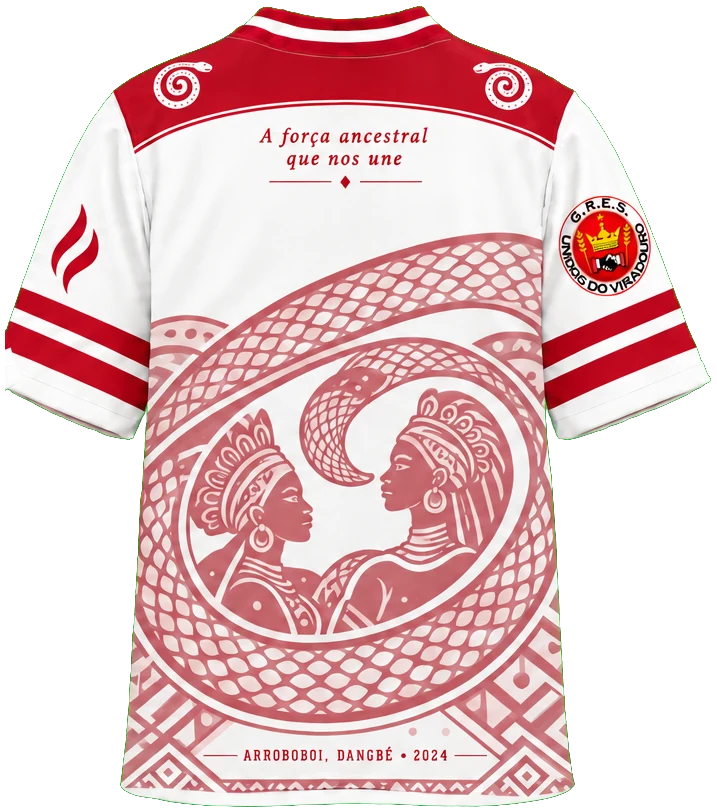
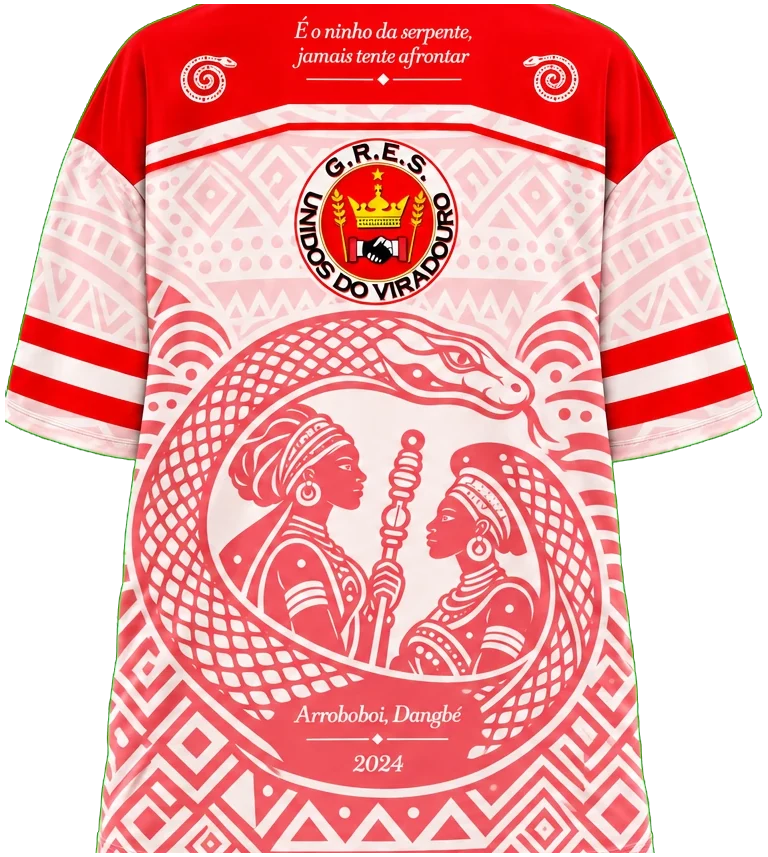
Baterias Cariocas: novas estampas Legado de Tijuca, Vila Isabel, Portela, Viradouro e Mocidade
- Frente e costas recortadas do fundo verde (tools/recorte_fundo_verde.py)
- 'Na estampa' atualizado para a arte nova de Tijuca, Vila Isabel e Portela
- CLAUDE.md: só falta a Legado nova da Mangueira

Claude-Session: https://claude.ai/code/session_01LWKwsvGKQjaMGiuZcpz9Vi

diff --git a/index.html b/index.html
@@ -972,7 +972,7 @@ class Component extends DCLogic {
   constructor(props) {
     super(props);
     this.K = {
-      BAT: [{"k": "furiosa", "name": "Furiosa", "c1": "#D61F26", "c2": "#FFFFFF", "cap": "Vermelho e branco", "l": ["A Furiosa", "", ""], "fs": 26, "ext": "webp", "escola": "Salgueiro", "enredo": "Bahia de Todos os Deuses", "titulo": "Campeã de 1969", "tema": "Baiana de tabuleiro, a igreja do Pelourinho e a roda de capoeira.", "p": {"f1": "Meu coração é vermelho e branco", "f2": "Salgueiro é paixão", "tema": "Surdo, caixa e baquetas cruzadas.", "cap": "Vermelho e branco", "c1": "#C8102E", "c2": "#FFFFFF"}}, {"k": "tabajara", "name": "Tabajara do Samba", "c1": "#1F4FD1", "c2": "#FFFFFF", "cap": "Azul e branco", "l": ["Tabajara", "do Samba", ""], "fs": 26, "ext": "webp", "escola": "Portela", "enredo": "Lendas e Mistérios da Amazônia", "titulo": "Campeã de 1970", "tema": "Vitória-régia, rio, sol, lua e penas da águia.", "p": {"f1": "Meu coração é azul e branco", "f2": "Onde tem samba, tem Portela", "tema": "A águia em voo e a pena azul.", "cap": "Azul e branco", "c1": "#1F4FD1", "c2": "#FFFFFF"}}, {"k": "soberana", "name": "Soberana", "c1": "#DCEBF7", "c2": "#1F4FD1", "cap": "Azul-claro e azul royal", "l": ["Soberana", "", ""], "fs": 26, "ext": "webp", "escola": "Beija-Flor", "enredo": "Ratos e Urubus", "titulo": "Vice-campeã de 1989", "tema": "Coroa, retalhos e urubus: o encontro entre luxo e descarte.", "p": {"f1": "Meu coração bate em Nilópolis", "f2": "Um amor que voa alto", "tema": "O beija-flor e a flor de corações.", "cap": "Azul-claro e azul", "c1": "#8EC5EC", "c2": "#1F4FD1"}}, {"k": "noel", "name": "Swingueira de Noel", "c1": "#13285E", "c2": "#FFFFFF", "cap": "Azul-marinho e branco", "l": ["Swingueira", "de Noel", ""], "fs": 24.0, "ext": "webp", "escola": "Vila Isabel", "enredo": "Kizomba", "titulo": "Campeã de 1988", "tema": "Tramas, dança e liberdade.", "p": {"f1": "O samba mora aqui", "f2": "Meu coração é da Vila", "tema": "Violão coroado e notas musicais.", "cap": "Azul-marinho e branco", "c1": "#13285E", "c2": "#FFFFFF"}}, {"k": "invocada", "name": "Invocada", "c1": "#0E8A6B", "c2": "#D61F26", "cap": "Verde, vermelho e branco", "l": ["Invocada", "", ""], "fs": 26, "ext": "webp", "escola": "Grande Rio", "enredo": "Sete Chaves de Exu", "titulo": "Campeã de 2022", "tema": "Sete chaves, caminhos, espiral e búzios.", "p": {"f1": "Caxias no peito", "f2": "Caxias canta comigo", "tema": "Onça coroada e pintas de onça.", "cap": "Verde, vermelho e branco", "c1": "#0E8A5B", "c2": "#D61F26"}}, {"k": "quente", "name": "Não Existe Mais Quente", "c1": "#2E9B2E", "c2": "#FFFFFF", "cap": "Verde e branco", "l": ["Não Existe", "Mais Quente", ""], "fs": 21.8, "ext": "webp", "escola": "Mocidade", "enredo": "Ziriguidum 2001", "titulo": "Campeã de 1985", "tema": "Astronauta ritmista, órbitas e estrela.", "p": {"f1": "Padre Miguel no coração", "f2": "Independente por amor", "tema": "A estrela da Mocidade.", "cap": "Verde e branco", "c1": "#3E9B2E", "c2": "#FFFFFF"}}, {"k": "cadencia", "name": "Pura Cadência", "c1": "#1F3FC0", "c2": "#F2C200", "cap": "Azul e amarelo ouro", "l": ["Pura", "Cadência", ""], "fs": 26, "ext": "webp", "escola": "Unidos da Tijuca", "enredo": "É Segredo!", "titulo": "Campeã de 2010", "tema": "Figurino em transformação e plumas de pavão.", "p": {"f1": "Meu coração é do Borel", "f2": "Orgulho de ser tijucano", "tema": "O pavão e suas plumas.", "cap": "Amarelo e azul", "c1": "#F2C200", "c2": "#1F3FC0"}}, {"k": "leopoldina", "name": "Swing da Leopoldina", "c1": "#EFE6CF", "c2": "#0E6B35", "cap": "Creme, verde e dourado", "l": ["Swing da", "Leopoldina", ""], "fs": 24.0, "ext": "webp", "escola": "Imperatriz", "enredo": "Mais Vale um Jegue que Me Carregue… Lá no Ceará", "titulo": "Campeã de 1995", "tema": "Jegue, bússola e paisagem do sertão.", "p": {"f1": "Ramos no coração", "f2": "Meu samba tem coroa", "tema": "Coroa imperial e ramos dourados.", "cap": "Creme, verde e dourado", "c1": "#EFE6CF", "c2": "#0E6B35"}}, {"k": "furacao", "name": "Furacão Vermelho e Branco", "c1": "#F4F4F4", "c2": "#D0202E", "cap": "Branco e vermelho", "l": ["Furacão", "Vermelho", "e Branco"], "fs": 19, "ext": "webp", "escola": "Viradouro", "enredo": "Arroboboi, Dangbé", "titulo": "Campeã de 2024", "tema": "Serpente, ancestralidade e guardiãs da tradição.", "p": {"f1": "Meu coração é Viradouro", "f2": "Niterói canta comigo", "tema": "Coroa, aperto de mãos e furacão.", "cap": "Branco e vermelho", "c1": "#F4F4F4", "c2": "#D0202E"}}, {"k": "tamborim", "name": "Tem Que Respeitar Meu Tamborim", "c1": "#0A6B3A", "c2": "#E0559B", "cap": "Verde e rosa", "l": ["Tem Que", "Respeitar", "Meu Tamborim"], "fs": 18.7, "ext": "webp", "escola": "Mangueira", "enredo": "História pra Ninar Gente Grande", "titulo": "Campeã de 2019", "tema": "Livro aberto e protagonistas recuperados pela história.", "p": {"f1": "Verde e rosa na alma", "f2": "Meu coração é Mangueira", "tema": "Surdo verde e rosa com a coroa.", "cap": "Rosa e verde", "c1": "#E0207F", "c2": "#0A6B3A"}}, {"k": "sinfonica", "name": "Sinfônica do Samba", "c1": "#0B4D2E", "c2": "#FFFFFF", "cap": "Verde e branco", "l": ["Sinfônica", "do Samba", ""], "fs": 26, "ext": "webp", "escola": "Império Serrano", "enredo": "Bum Bum Paticumbum Prugurundum", "titulo": "Campeã de 1982", "tema": "Evolução dos desfiles, baiana e agogô de quatro bocas.", "p": {"f1": "A Serrinha mora em mim", "f2": "Meu Império é o samba", "tema": "Coroa dourada e agogô.", "cap": "Verde e dourado", "c1": "#0B4D2E", "c2": "#D4AF37"}}],
+      BAT: [{"k": "furiosa", "name": "Furiosa", "c1": "#D61F26", "c2": "#FFFFFF", "cap": "Vermelho e branco", "l": ["A Furiosa", "", ""], "fs": 26, "ext": "webp", "escola": "Salgueiro", "enredo": "Bahia de Todos os Deuses", "titulo": "Campeã de 1969", "tema": "Baiana de tabuleiro, a igreja do Pelourinho e a roda de capoeira.", "p": {"f1": "Meu coração é vermelho e branco", "f2": "Salgueiro é paixão", "tema": "Surdo, caixa e baquetas cruzadas.", "cap": "Vermelho e branco", "c1": "#C8102E", "c2": "#FFFFFF"}}, {"k": "tabajara", "name": "Tabajara do Samba", "c1": "#1F4FD1", "c2": "#FFFFFF", "cap": "Azul e branco", "l": ["Tabajara", "do Samba", ""], "fs": 26, "ext": "webp", "escola": "Portela", "enredo": "Lendas e Mistérios da Amazônia", "titulo": "Campeã de 1970", "tema": "Vitória-régia, o rio sob a lua, a flor de lótus e a pena da águia.", "p": {"f1": "Meu coração é azul e branco", "f2": "Onde tem samba, tem Portela", "tema": "A águia em voo e a pena azul.", "cap": "Azul e branco", "c1": "#1F4FD1", "c2": "#FFFFFF"}}, {"k": "soberana", "name": "Soberana", "c1": "#DCEBF7", "c2": "#1F4FD1", "cap": "Azul-claro e azul royal", "l": ["Soberana", "", ""], "fs": 26, "ext": "webp", "escola": "Beija-Flor", "enredo": "Ratos e Urubus", "titulo": "Vice-campeã de 1989", "tema": "Coroa, retalhos e urubus: o encontro entre luxo e descarte.", "p": {"f1": "Meu coração bate em Nilópolis", "f2": "Um amor que voa alto", "tema": "O beija-flor e a flor de corações.", "cap": "Azul-claro e azul", "c1": "#8EC5EC", "c2": "#1F4FD1"}}, {"k": "noel", "name": "Swingueira de Noel", "c1": "#13285E", "c2": "#FFFFFF", "cap": "Azul-marinho e branco", "l": ["Swingueira", "de Noel", ""], "fs": 24.0, "ext": "webp", "escola": "Vila Isabel", "enredo": "Kizomba", "titulo": "Campeã de 1988", "tema": "Mulheres dançando, a lua e a corrente partida da liberdade.", "p": {"f1": "O samba mora aqui", "f2": "Meu coração é da Vila", "tema": "Violão coroado e notas musicais.", "cap": "Azul-marinho e branco", "c1": "#13285E", "c2": "#FFFFFF"}}, {"k": "invocada", "name": "Invocada", "c1": "#0E8A6B", "c2": "#D61F26", "cap": "Verde, vermelho e branco", "l": ["Invocada", "", ""], "fs": 26, "ext": "webp", "escola": "Grande Rio", "enredo": "Sete Chaves de Exu", "titulo": "Campeã de 2022", "tema": "Sete chaves, caminhos, espiral e búzios.", "p": {"f1": "Caxias no peito", "f2": "Caxias canta comigo", "tema": "Onça coroada e pintas de onça.", "cap": "Verde, vermelho e branco", "c1": "#0E8A5B", "c2": "#D61F26"}}, {"k": "quente", "name": "Não Existe Mais Quente", "c1": "#2E9B2E", "c2": "#FFFFFF", "cap": "Verde e branco", "l": ["Não Existe", "Mais Quente", ""], "fs": 21.8, "ext": "webp", "escola": "Mocidade", "enredo": "Ziriguidum 2001", "titulo": "Campeã de 1985", "tema": "Astronauta ritmista, órbitas e estrela.", "p": {"f1": "Padre Miguel no coração", "f2": "Independente por amor", "tema": "A estrela da Mocidade.", "cap": "Verde e branco", "c1": "#3E9B2E", "c2": "#FFFFFF"}}, {"k": "cadencia", "name": "Pura Cadência", "c1": "#1F3FC0", "c2": "#F2C200", "cap": "Azul e amarelo ouro", "l": ["Pura", "Cadência", ""], "fs": 26, "ext": "webp", "escola": "Unidos da Tijuca", "enredo": "É Segredo!", "titulo": "Campeã de 2010", "tema": "Dançarina com a saia em plumas de pavão, o pavão da escola e os versos de É Segredo.", "p": {"f1": "Meu coração é do Borel", "f2": "Orgulho de ser tijucano", "tema": "O pavão e suas plumas.", "cap": "Amarelo e azul", "c1": "#F2C200", "c2": "#1F3FC0"}}, {"k": "leopoldina", "name": "Swing da Leopoldina", "c1": "#EFE6CF", "c2": "#0E6B35", "cap": "Creme, verde e dourado", "l": ["Swing da", "Leopoldina", ""], "fs": 24.0, "ext": "webp", "escola": "Imperatriz", "enredo": "Mais Vale um Jegue que Me Carregue… Lá no Ceará", "titulo": "Campeã de 1995", "tema": "Jegue, bússola e paisagem do sertão.", "p": {"f1": "Ramos no coração", "f2": "Meu samba tem coroa", "tema": "Coroa imperial e ramos dourados.", "cap": "Creme, verde e dourado", "c1": "#EFE6CF", "c2": "#0E6B35"}}, {"k": "furacao", "name": "Furacão Vermelho e Branco", "c1": "#F4F4F4", "c2": "#D0202E", "cap": "Branco e vermelho", "l": ["Furacão", "Vermelho", "e Branco"], "fs": 19, "ext": "webp", "escola": "Viradouro", "enredo": "Arroboboi, Dangbé", "titulo": "Campeã de 2024", "tema": "Serpente, ancestralidade e guardiãs da tradição.", "p": {"f1": "Meu coração é Viradouro", "f2": "Niterói canta comigo", "tema": "Coroa, aperto de mãos e furacão.", "cap": "Branco e vermelho", "c1": "#F4F4F4", "c2": "#D0202E"}}, {"k": "tamborim", "name": "Tem Que Respeitar Meu Tamborim", "c1": "#0A6B3A", "c2": "#E0559B", "cap": "Verde e rosa", "l": ["Tem Que", "Respeitar", "Meu Tamborim"], "fs": 18.7, "ext": "webp", "escola": "Mangueira", "enredo": "História pra Ninar Gente Grande", "titulo": "Campeã de 2019", "tema": "Livro aberto e protagonistas recuperados pela história.", "p": {"f1": "Verde e rosa na alma", "f2": "Meu coração é Mangueira", "tema": "Surdo verde e rosa com a coroa.", "cap": "Rosa e verde", "c1": "#E0207F", "c2": "#0A6B3A"}}, {"k": "sinfonica", "name": "Sinfônica do Samba", "c1": "#0B4D2E", "c2": "#FFFFFF", "cap": "Verde e branco", "l": ["Sinfônica", "do Samba", ""], "fs": 26, "ext": "webp", "escola": "Império Serrano", "enredo": "Bum Bum Paticumbum Prugurundum", "titulo": "Campeã de 1982", "tema": "Evolução dos desfiles, baiana e agogô de quatro bocas.", "p": {"f1": "A Serrinha mora em mim", "f2": "Meu Império é o samba", "tema": "Coroa dourada e agogô.", "cap": "Verde e dourado", "c1": "#0B4D2E", "c2": "#D4AF37"}}],
       OLY: [
         { name: 'Azul', swatch: '#1E6BFF', front: 'assets/iegc-azul-frente.webp', back: 'assets/iegc-azul-costas.webp' },
         { name: 'Verde', swatch: '#2DBA3E', front: 'assets/iegc-verde-frente.webp', back: 'assets/iegc-verde-costas.webp' }

diff --git a/CLAUDE.md b/CLAUDE.md
@@ -26,7 +26,7 @@ Landing page estática da **Marol Store** (camisas personalizadas). Tudo está e
 - Duas linhas por escola (estado `batLine`): **Legado** (homenageia o enredo campeão; arquivos `assets/baterias/<k>-f.webp` / `-b.webp`) e **Paixão pelo Samba** (`<k>-p-f.webp` / `-p-b.webp`).
 - Marca d'água: logo da escola `assets/baterias/<k>-logo.webp` (uso autorizado pelo dono).
 - Chaves: furiosa (Salgueiro), tabajara (Portela), soberana (Beija-Flor), noel (Vila Isabel), invocada (Grande Rio), quente (Mocidade), cadencia (Tijuca), leopoldina (Imperatriz), furacao (Viradouro), tamborim (Mangueira), sinfonica (Império Serrano).
-- Pendente: estampas Legado novas de Mangueira e Unidos da Tijuca.
+- Legado em versão nova (nov/2026): Tijuca, Vila Isabel, Portela, Viradouro e Mocidade. Pendente: estampa Legado nova da Mangueira.
 - Sem personalização (nome/número) nessa coleção: é linha casual de fã.
 
 ## Maiores do Rio
